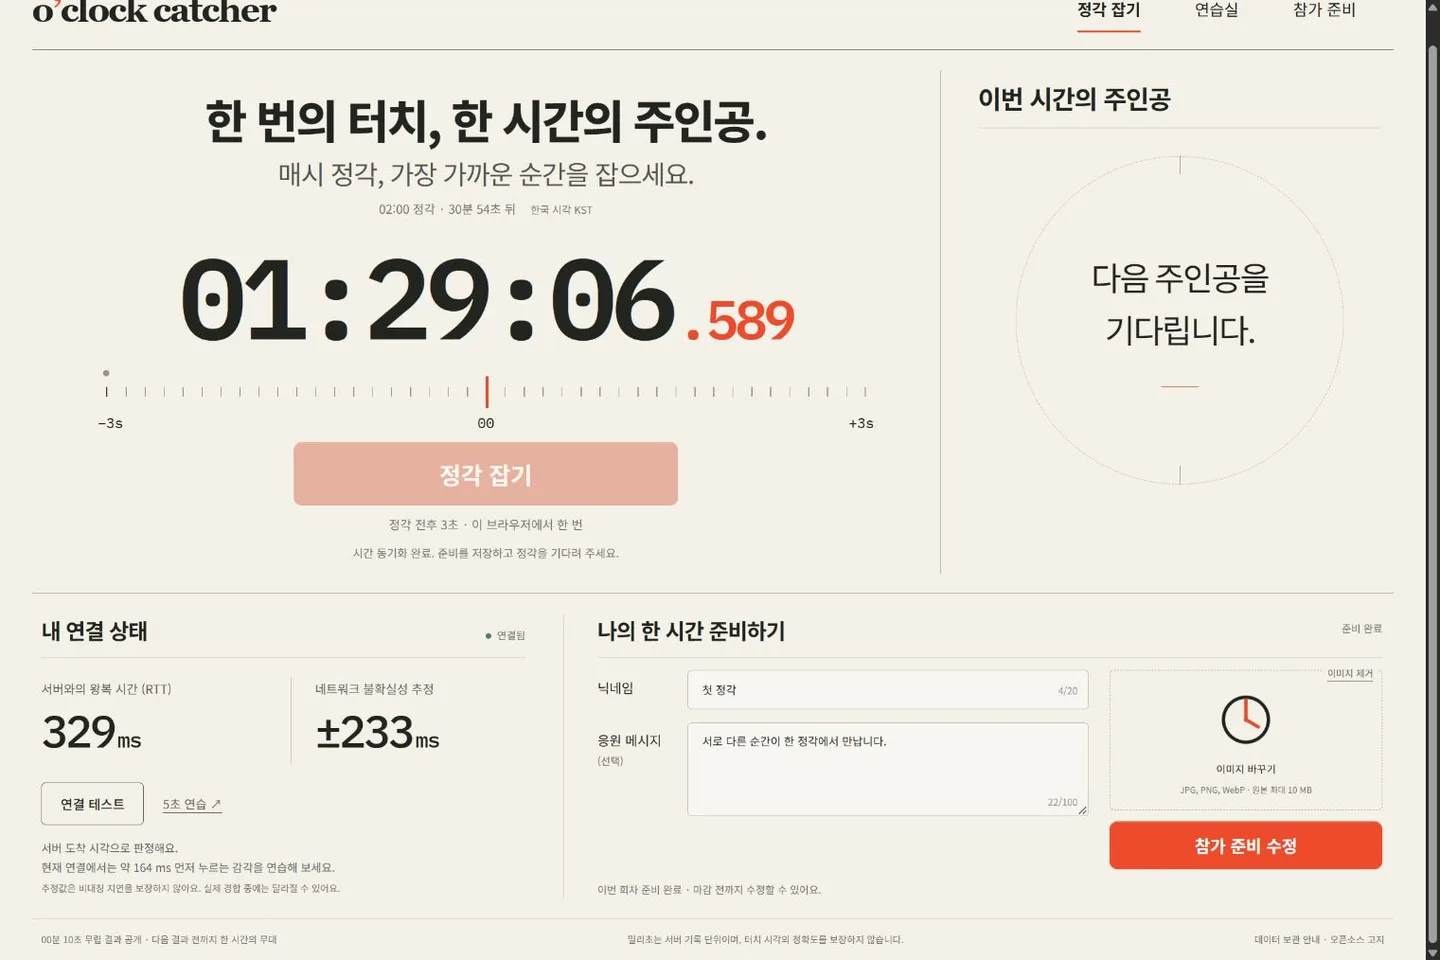
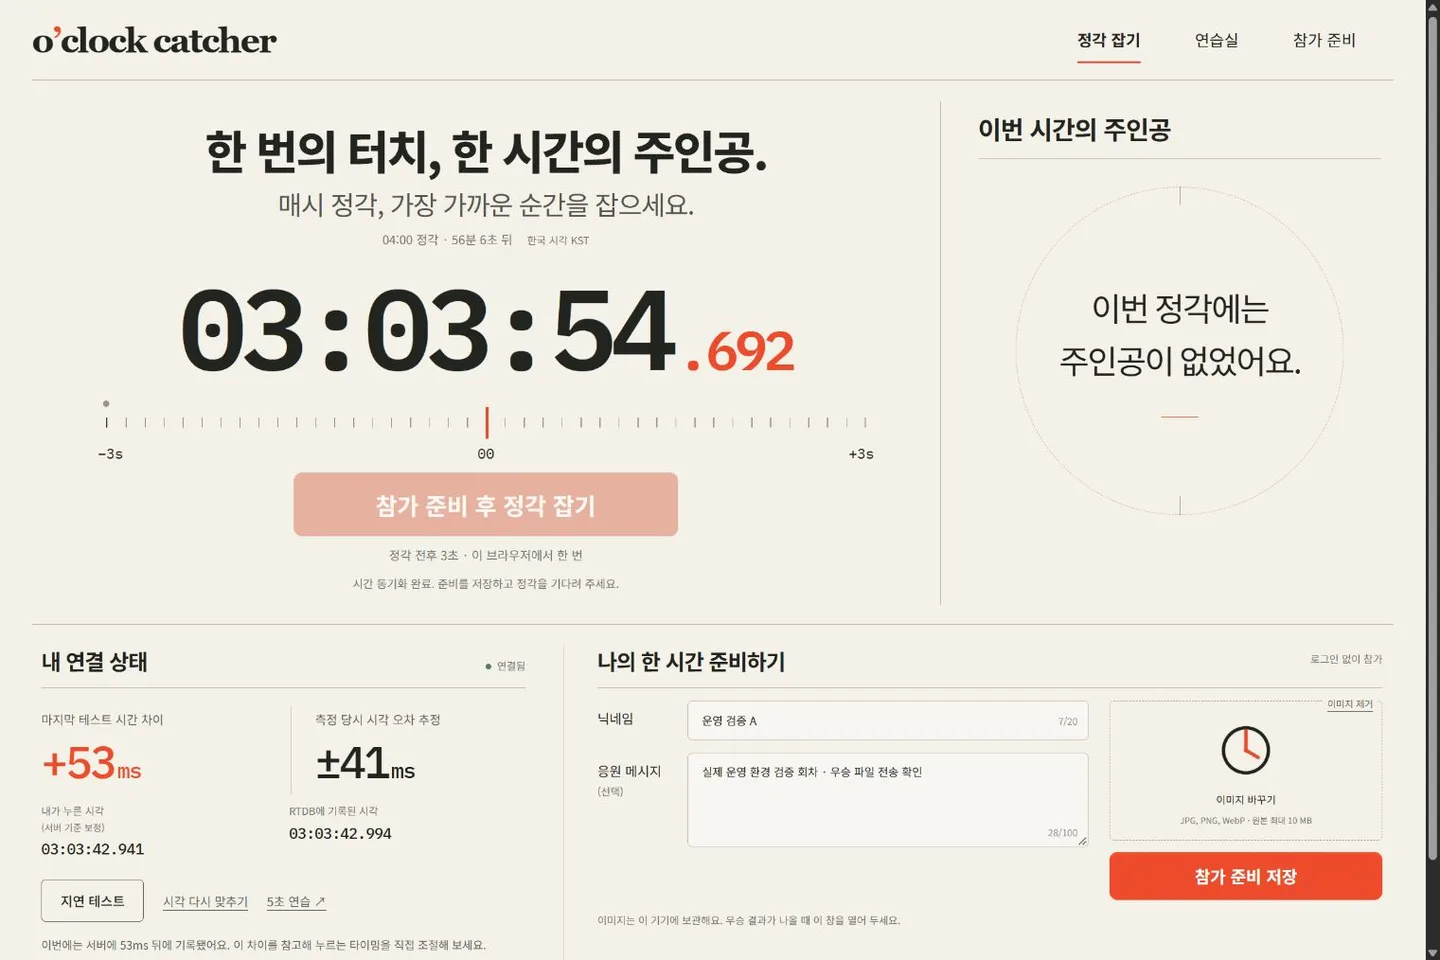
Update Day 012 to 0.1.1: measured click-to-RTDB delay

diff --git a/day-012-oclock-catcher/README.md b/day-012-oclock-catcher/README.md
@@ -2,13 +2,13 @@
 
 **한 번의 터치, 한 시간의 주인공.** 매시 정각에 가장 가까이 도착한 한 사람의 이미지와 문구를 다음 결과까지 전시합니다.
 
-[정각 잡으러 가기](https://oclock-catcher-20261027.web.app/) · [데이터 보관 안내](https://oclock-catcher-20261027.web.app/privacy.html) · [릴리즈 0.1.0](https://github.com/hssum9409/daily_odd_builds-public/releases/tag/day012-web-v0.1.0)
+[정각 잡으러 가기](https://oclock-catcher-20261027.web.app/) · [데이터 보관 안내](https://oclock-catcher-20261027.web.app/privacy.html) · [릴리즈 0.1.1](https://github.com/hssum9409/daily_odd_builds-public/releases/tag/day012-web-v0.1.1)
 
 ![실제 운영 사이트의 참가 준비 화면](images/desktop.webp)
 
 ## 참가하기
 
-1. 사이트를 열고 연결 테스트와 5초 연습으로 지연을 확인합니다.
+1. 사이트를 열고 지연 테스트를 누릅니다. 내 클릭 시각과 RTDB 기록의 차이를 확인하고 5초 연습에서 타이밍을 조절합니다.
 2. 닉네임, 선택 문구와 이미지를 준비해 저장합니다. 등록은 정각 3초 전에 닫힙니다.
 3. 매시 정각 전후 3초 동안 **정각 잡기**를 한 번 누릅니다. 같은 익명 신원에는 추가 기회가 없습니다.
 4. 약 00분 10초에 결과를 공개합니다. 우승한 브라우저는 이미지를 자동 전송하므로 창을 열어 두세요.
@@ -17,9 +17,11 @@
 
 ## 서버가 받은 순간으로
 
-화면은 동기화한 로컬 시계로 부드럽게 움직이고, 판정은 RTDB의 서버 도착 시각으로 합니다. 연결 테스트에서 왕복 시간과 추정 불확실성을, 연습에서 내 터치와 서버 도착의 차이를 볼 수 있습니다. 밀리초는 서버 기록의 단위이며 손가락 시각의 1ms 정확도를 보장하지 않습니다.
+화면은 동기화한 로컬 시계로 부드럽게 움직이고, 판정은 RTDB의 서버 도착 시각으로 합니다. 지연 테스트를 누른 순간의 내 시각과 RTDB 기록 시각, 두 값의 차이를 밀리초로 보여줍니다. 예를 들어 +58ms라면 이 차이를 참고해 더 일찍 누르는 감각을 직접 조절할 수 있습니다. 내 시각은 별도 측정으로 서버 기준에 맞춘 값이며 추정 오차도 함께 표시합니다. 밀리초는 서버 기록의 단위이며 손가락 시각의 1ms 정확도를 보장하지 않습니다.
 
 절대 오차가 같으면 더 먼저 도착한 접수, 같은 ms면 익명 식별자 순서로 결정합니다. Scheduler 지연이나 서비스 장애가 있으면 결과 발표가 늦어질 수 있습니다.
+
+![운영 사이트의 실측 지연 테스트](images/latency-test.webp)
 
 ## 우승자만 이미지 전송
 
@@ -33,7 +35,7 @@ Web / Mobile Web MVP. Windows Chromium의 실제 운영 HTTPS 접속·익명 준
 
 2026-10-27 02:00 KST 자연 정각 실행은 빈 회차를 10.158초 뒤 게시했습니다. 별도 운영 검증 회차에서 실제 브라우저의 독립 익명 세션 2개로 ±3초 입력·1회 잠금·서버 판정·우승 파일 자동 전송과 양쪽 화면 표시를 확인했습니다. 검증 회차는 운영자 전용 Scheduler로 정산했으며 서버 기준 우승 오차는 +42ms였습니다. 실제 대규모 동시 접속, 물리 모바일, Safari와 Firefox는 미검증입니다. 한 RTDB 인스턴스를 사용하므로 무제한 처리량을 약속하지 않습니다.
 
-로컬 빌드 및 단위 7개·Firebase 에뮬레이터 통합 12개 시험을 통과했습니다. 에뮬레이터·합성 부하 시험은 실사용자 부하 검증과 구분합니다. GitHub Actions는 사용하지 않습니다.
+로컬 빌드 및 단위 7개·Firebase 에뮬레이터 통합 13개 시험을 통과했습니다. 에뮬레이터·합성 부하 시험은 실사용자 부하 검증과 구분합니다. GitHub Actions는 사용하지 않습니다.
 
 ## 배포 자료
 

diff --git a/day-012-oclock-catcher/VERIFICATION.md b/day-012-oclock-catcher/VERIFICATION.md
@@ -27,3 +27,12 @@
 최종 npm run verify:local이 빌드 → 단위 7개 → 에뮬레이터 통합 12개 → 에뮬레이터 종료까지 exit 0으로 통과했다. 통합 검사의 64개 동시 클라이언트·1만 합성 기록은 실제 인터넷 부하 검증이 아니다.
 
 실제 대규모 동시 접속, 물리 Android/iOS, Safari, Firefox 및 모든 네트워크의 비대칭 지연은 미검증이다. 익명 신원당 1회이며 동일인의 브라우저 초기화·다중 계정·자동 클릭을 완전히 방지하지 않는다. Scheduler 장애 시 정확히 00분 10초 게시를 보장하지 않는다.
+
+
+## 0.1.1 · 누른 시각과 RTDB 기록의 차이
+
+지연 테스트는 pointer-down/키 입력 순간의 보정된 로컬 시각을 먼저 고정하고 별도의 RTDB 서버 기록과 비교합니다. 동기화에 사용한 RTT의 절반으로 표시값을 만들지 않습니다. 중복 측정·인위적인 대기시간을 제외하고 요청 식별자로 같은 측정의 응답인지 검사합니다.
+
+운영 브라우저 실측: 02:59:34.331 → 02:59:34.426 = +95ms / 03:03:42.941 → 03:03:42.994 = +53ms / 03:04:10.440 → 03:04:10.479 = +39ms. 모든 표시 차이의 뺄셈과 마지막 서버 시각의 실제 RTDB 일치를 확인했습니다. 테스트 후 경합 접수는 생성되지 않았습니다.
+
+로컬 verify:local: 빌드·단위 7개·에뮬레이터 통합 13개 통과. Windows Chromium IAB에서 마우스·Enter 입력, 1536×1024와 390×844, 가로 넘침 없음 및 콘솔 오류 없음을 확인했습니다. 물리 모바일·Safari·Firefox는 미검증입니다. 시각 동기화가 오래됐으면 시각 다시 맞추기 후 테스트합니다.

diff --git a/README.md b/README.md
@@ -96,7 +96,7 @@ Web / 싱글플레이 MVP · 7×11부터 30×30까지 · 명시적 초안 저장
 
 매시 정각에 가장 가까운 순간을 잡고, 우승 이미지와 문구로 한 시간의 주인공이 되는 익명 타이밍 게임입니다.
 
-[정각 잡기](https://oclock-catcher-20261027.web.app/) · [소개와 사용 방법](day-012-oclock-catcher/README.md) · [릴리즈 0.1.0](https://github.com/hssum9409/daily_odd_builds-public/releases/tag/day012-web-v0.1.0) · [데이터 보관 안내](https://oclock-catcher-20261027.web.app/privacy.html) · [포털 기록](https://daily-odd-builds-portal.web.app/detail?id=day-2026-10-23)
+[정각 잡기](https://oclock-catcher-20261027.web.app/) · [소개와 사용 방법](day-012-oclock-catcher/README.md) · [릴리즈 0.1.1](https://github.com/hssum9409/daily_odd_builds-public/releases/tag/day012-web-v0.1.1) · [데이터 보관 안내](https://oclock-catcher-20261027.web.app/privacy.html) · [포털 기록](https://daily-odd-builds-portal.web.app/detail?id=day-2026-10-23)
 
 Web / Mobile Web MVP · 로그인 없이 익명 참가 · 정각 전후 3초, 익명 신원당 1회 · 우승자만 이미지 전송. 포털 Day 012 기록일 2026-10-23, 실제 공개일은 제품 안내를 따릅니다. 원본 소스와 개발 이력은 비공개입니다. [제작 토큰 집계](day-012-oclock-catcher/TOKEN-USAGE.md).
 <!-- day012-oclock:end -->
